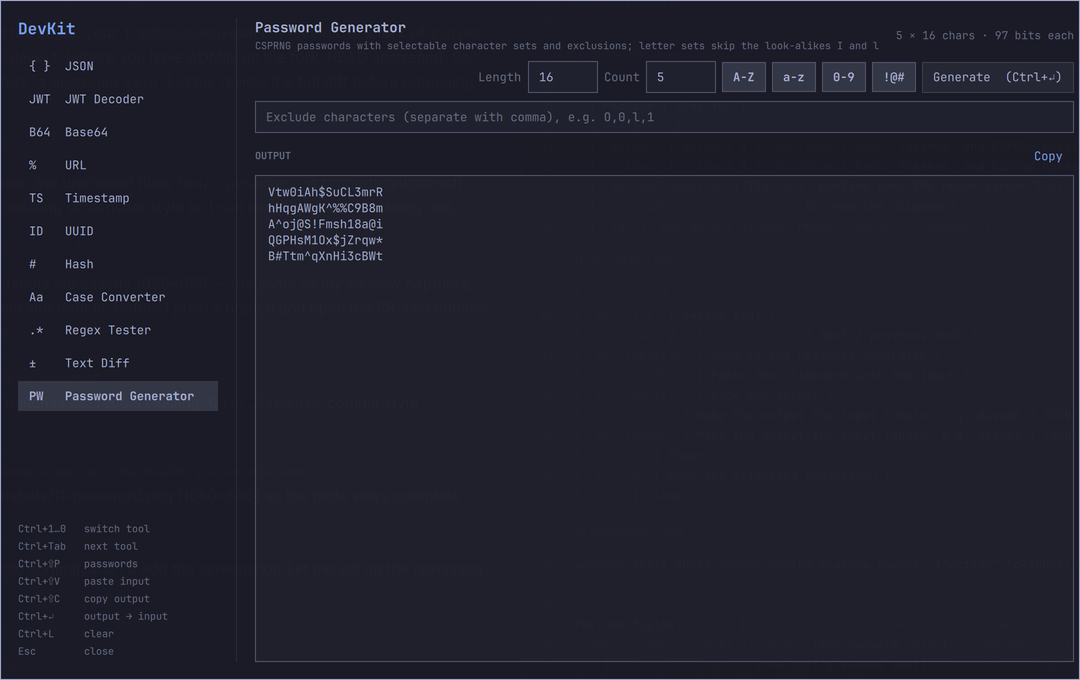
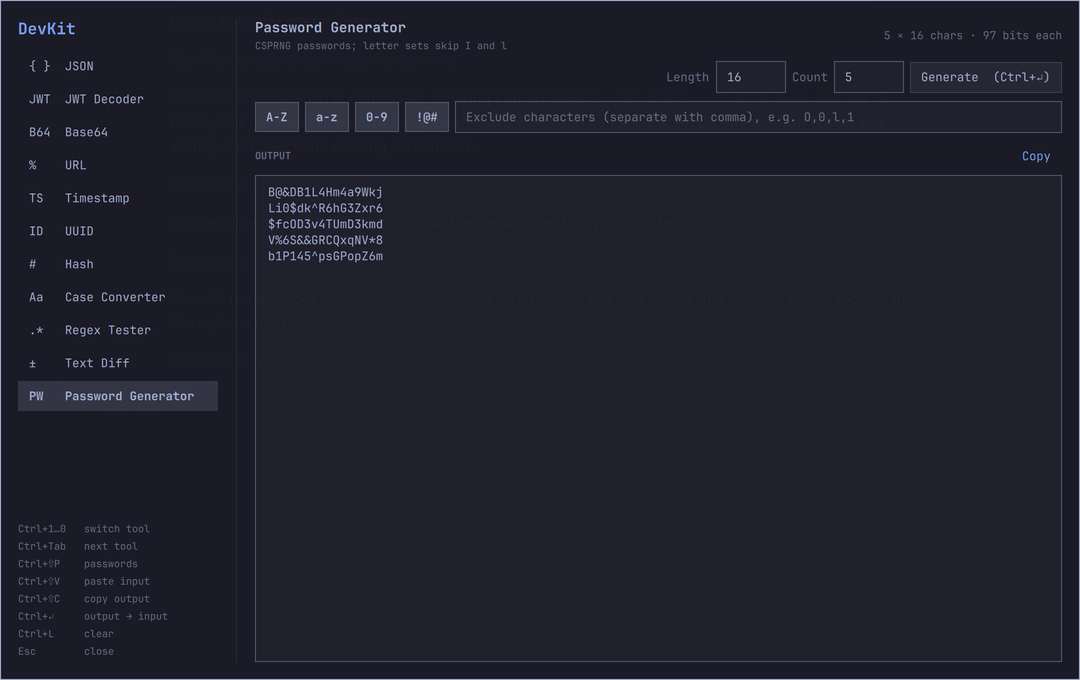
password: address review feedback
- Move the A-Z/a-z/0-9/!@# toggles onto the exclude line so the toolbar and
  the clipboard banner fit inside the window at two-digit values
- Keep "devtoys" in keywords and aliases, next to "password"
- Treat an empty or unreadable length as the default 16 instead of 1, so
  clearing the field cannot briefly show a 6-bit password
- Flag results under 60 bits as weak and colour the info text
- Cap Count at 100 while the Password tool is open (UUIDs keep 500) and clamp
  summon payloads per tool so the field matches what is generated
- Take the Password Generator shortcut from TOOLS, so the sidebar tooltip and
  the Shortcut stay in sync
- Restore a tool's fields before computing, so switching tools no longer draws
  and discards random bytes
- Reuse passwordOptions() when generating, and shorten the subtitle

diff --git a/DevKit.qml b/DevKit.qml
@@ -47,6 +47,7 @@ Item {
   property bool pwDigits: true
   property bool pwSpecial: true
   property var stash: ({})           // per-tool editor state, session only
+  property bool restoring: false     // true while many fields are set at once
 
   // ---- results
   property string outText: ""
@@ -88,16 +89,25 @@ Item {
     try { payload = JSON.parse(payloadJson || "{}") } catch (e) { payload = ({}) }
     opened = true
     window.visible = true
+    // Apply the whole payload before computing; see selectTool().
+    var wasRestoring = restoring
+    restoring = true
     if (payload.tool) selectTool(String(payload.tool))
     if (payload.mode) mode = String(payload.mode)
     if (payload.input !== undefined) inputEd.text = String(payload.input)
     if (payload.input2 !== undefined) input2Ed.text = String(payload.input2)
-    if (payload.count !== undefined) countField.text = String(Tools.uuidCount(payload.count))
+    // Count means UUIDs for one tool and passwords for the other, and their
+    // limits differ, so clamp it the way the field's validator does.
+    if (payload.count !== undefined)
+      countField.text = String(toolId === "password" ? Tools.passwordCount(payload.count) : Tools.uuidCount(payload.count))
     if (payload.length !== undefined) lengthField.text = String(Tools.passwordLength(payload.length))
     if (payload.pattern !== undefined) patternField.text = String(payload.pattern)
     if (payload.flags !== undefined) flagsField.text = String(payload.flags)
     if (payload.replacement !== undefined) { replField.text = String(payload.replacement); useReplace = true }
-    if (payload.tool || payload.mode) compute()
+    restoring = wasRestoring
+    if (payload.tool || payload.mode || payload.input !== undefined || payload.input2 !== undefined
+        || payload.count !== undefined || payload.length !== undefined || payload.pattern !== undefined
+        || payload.flags !== undefined || payload.replacement !== undefined) compute()
     readClipboard(payload.action === "clipboard" ? "load" : "hint")
     if (randomPool.length < randomPoolTarget) requestRandom(randomPoolTarget)
     Qt.callLater(focusInput)
@@ -147,6 +157,11 @@ Item {
     initialized = true
     var t = Tools.toolById(id)
     var s = stash[t.id] || ({})
+    // Every field below fires its own onTextChanged, so restore them all first
+    // and compute once. Otherwise a tool runs once per field, and UUIDs and
+    // passwords draw and discard random bytes on each of those runs.
+    var wasRestoring = restoring
+    restoring = true
     toolId = t.id
     mode = s.mode || (t.modes.length ? t.modes[0].value : "")
     useReplace = !!s.useReplace
@@ -157,12 +172,13 @@ Item {
     flagsField.text = s.flags !== undefined ? s.flags : "g"
     replField.text = s.replacement || ""
     countField.text = s.count !== undefined ? s.count : (t.id === "password" ? "1" : "5")
-    lengthField.text = s.length !== undefined ? s.length : "16"
+    lengthField.text = s.length !== undefined ? s.length : String(Tools.PASSWORD_LENGTH_DEFAULT)
     excludeField.text = s.exclude || ""
     pwUpper = s.pwUpper !== false
     pwLower = s.pwLower !== false
     pwDigits = s.pwDigits !== false
     pwSpecial = s.pwSpecial !== false
+    restoring = wasRestoring
     compute()
     Qt.callLater(focusInput)
   }
@@ -222,7 +238,8 @@ Item {
     diffRows = []
     outPairs = []
     infoUrgent = false
-    var invalid = Tools.passwordValidate(passwordOptions())
+    var opts = passwordOptions()
+    var invalid = Tools.passwordValidate(opts)
     if (invalid) {
       randomWanted = 0
       outText = ""
@@ -230,7 +247,7 @@ Item {
       infoText = ""
       return
     }
-    var need = Tools.passwordBytesNeeded(countField.text, lengthField.text)
+    var need = Tools.passwordBytesNeeded(opts.count, opts.length)
     var bytes = takeRandom(need)
     if (!bytes) {
       // Defer until the helper delivers enough secure bytes.
@@ -242,11 +259,8 @@ Item {
       return
     }
     randomWanted = 0
-    applyResult(Tools.run("password", {
-      length: lengthField.text, count: countField.text,
-      upper: pwUpper, lower: pwLower, digits: pwDigits, special: pwSpecial,
-      exclude: excludeField.text, randomBytes: bytes
-    }))
+    opts.randomBytes = bytes
+    applyResult(Tools.run("password", opts))
   }
 
   function applyResult(r) {
@@ -259,6 +273,8 @@ Item {
   }
 
   function compute() {
+    // selectTool() and open() set many fields in a row and compute afterwards.
+    if (restoring) return
     if (toolId === "hash") { computeHash(); return }
     if (toolId === "uuid") { computeUuid(); return }
     if (toolId === "password") { computePassword(); return }
@@ -609,19 +625,21 @@ Item {
       Shortcut { sequence: "Ctrl+Shift+V"; onActivated: root.readClipboard("paste") }
       Shortcut { sequence: "Ctrl+L"; onActivated: { inputEd.text = ""; input2Ed.text = ""; root.focusInput() } }
       Shortcut { sequence: "Ctrl+Return"; onActivated: (root.toolId === "uuid" || root.toolId === "password") ? root.compute() : root.useOutputAsInput() }
-      Shortcut { sequence: "Ctrl+Shift+P"; onActivated: root.selectTool("password") }
       Shortcut { sequence: "Ctrl+D"; enabled: root.clipTool !== ""; onActivated: root.loadClipboardSuggestion() }
       Repeater {
         model: root.tools.length
         delegate: Item {
           id: shortcutHost
           required property int index
+          readonly property var tool: root.tools[shortcutHost.index]
           Shortcut {
-            // Only the first ten tools keep a Ctrl+digit key; the rest use
-            // Ctrl+Tab or their own shortcut.
-            enabled: shortcutHost.index < 10
-            sequence: "Ctrl+" + ((shortcutHost.index + 1) % 10)
-            onActivated: root.selectTool(root.tools[shortcutHost.index].id)
+            // The first ten tools take Ctrl+1…0. A tool past that names its own
+            // key in TOOLS, so this and the sidebar tooltip cannot drift apart.
+            enabled: shortcutHost.index < 10 || shortcutHost.tool.shortcut !== undefined
+            sequence: shortcutHost.index < 10
+              ? "Ctrl+" + ((shortcutHost.index + 1) % 10)
+              : (shortcutHost.tool.shortcut || "")
+            onActivated: root.selectTool(shortcutHost.tool.id)
           }
         }
       }
@@ -658,7 +676,7 @@ Item {
               text: (modelData.badge + "    ").slice(0, 4) + " " + modelData.name
               foreground: root.foreground
               accent: root.accent
-              tooltipText: index < 10 ? "Ctrl+" + ((index + 1) % 10) : (modelData.id === "password" ? "Ctrl+⇧P" : "")
+              tooltipText: index < 10 ? "Ctrl+" + ((index + 1) % 10) : (modelData.shortcut || "").replace("Shift+", "⇧")
               onClicked: root.selectTool(modelData.id)
             }
           }
@@ -782,10 +800,10 @@ Item {
               id: lengthField
               visible: root.toolId === "password"
               Layout.preferredWidth: Style.space(70)
-              text: "16"
+              text: String(Tools.PASSWORD_LENGTH_DEFAULT)
               foreground: root.foreground
               accent: root.accent
-              validator: IntValidator { bottom: 1; top: 128 }
+              validator: IntValidator { bottom: 1; top: Tools.PASSWORD_LENGTH_MAX }
               onTextChanged: if (root.toolId === "password") root.compute()
             }
             PlainText { visible: root.toolId === "uuid" || root.toolId === "password"; text: "Count"; color: root.dim }
@@ -796,7 +814,9 @@ Item {
               text: "5"
               foreground: root.foreground
               accent: root.accent
-              validator: IntValidator { bottom: 1; top: 500 }
+              // UUIDs go up to 500; passwords stop at 100, so the field must
+              // not accept more than the tool will honour.
+              validator: IntValidator { bottom: 1; top: root.toolId === "password" ? Tools.PASSWORD_COUNT_MAX : Tools.UUID_MAX }
               onTextChanged: if (root.toolId === "uuid" || root.toolId === "password") root.compute()
             }
             Button {
@@ -807,35 +827,6 @@ Item {
               foreground: root.foreground
               accent: root.accent
               onClicked: { root.upper = !root.upper; root.compute() }
-            }
-            // password character sets
-            Button {
-              visible: root.toolId === "password"
-              text: "A-Z"; bordered: true; selected: root.pwUpper
-              foreground: root.foreground; accent: root.accent
-              tooltipText: "Include uppercase letters"
-              onClicked: { root.pwUpper = !root.pwUpper; root.compute() }
-            }
-            Button {
-              visible: root.toolId === "password"
-              text: "a-z"; bordered: true; selected: root.pwLower
-              foreground: root.foreground; accent: root.accent
-              tooltipText: "Include lowercase letters"
-              onClicked: { root.pwLower = !root.pwLower; root.compute() }
-            }
-            Button {
-              visible: root.toolId === "password"
-              text: "0-9"; bordered: true; selected: root.pwDigits
-              foreground: root.foreground; accent: root.accent
-              tooltipText: "Include digits"
-              onClicked: { root.pwDigits = !root.pwDigits; root.compute() }
-            }
-            Button {
-              visible: root.toolId === "password"
-              text: "!@#"; bordered: true; selected: root.pwSpecial
-              foreground: root.foreground; accent: root.accent
-              tooltipText: "Include special characters (!@#$%^&*)"
-              onClicked: { root.pwSpecial = !root.pwSpecial; root.compute() }
             }
             Button {
               id: generateButton
@@ -871,15 +862,47 @@ Item {
             onTextChanged: root.compute()
           }
 
-          TextField {
-            id: excludeField
-            visible: root.toolId === "password"
+          // The character-set toggles share this line with the exclude field:
+          // Length, Count, four toggles and Generate cannot fit on one line.
+          RowLayout {
             Layout.fillWidth: true
-            placeholderText: "Exclude characters (separate with comma), e.g. O,0,l,1"
-            foreground: root.foreground
-            accent: root.accent
-            font.family: root.fontFamily
-            onTextChanged: if (root.toolId === "password") root.compute()
+            visible: root.toolId === "password"
+            spacing: Style.spacing.md
+
+            Button {
+              text: "A-Z"; bordered: true; selected: root.pwUpper
+              foreground: root.foreground; accent: root.accent
+              tooltipText: "Include uppercase letters"
+              onClicked: { root.pwUpper = !root.pwUpper; root.compute() }
+            }
+            Button {
+              text: "a-z"; bordered: true; selected: root.pwLower
+              foreground: root.foreground; accent: root.accent
+              tooltipText: "Include lowercase letters"
+              onClicked: { root.pwLower = !root.pwLower; root.compute() }
+            }
+            Button {
+              text: "0-9"; bordered: true; selected: root.pwDigits
+              foreground: root.foreground; accent: root.accent
+              tooltipText: "Include digits"
+              onClicked: { root.pwDigits = !root.pwDigits; root.compute() }
+            }
+            Button {
+              text: "!@#"; bordered: true; selected: root.pwSpecial
+              foreground: root.foreground; accent: root.accent
+              tooltipText: "Include special characters (!@#$%^&*)"
+              onClicked: { root.pwSpecial = !root.pwSpecial; root.compute() }
+            }
+
+            TextField {
+              id: excludeField
+              Layout.fillWidth: true
+              placeholderText: "Exclude characters (separate with comma), e.g. O,0,l,1"
+              foreground: root.foreground
+              accent: root.accent
+              font.family: root.fontFamily
+              onTextChanged: if (root.toolId === "password") root.compute()
+            }
           }
 
           // editors

diff --git a/Tools.js b/Tools.js
@@ -30,8 +30,9 @@ var TOOLS = [
     modes: [], placeholder: "Test text…" },
   { id: "diff", badge: "±", name: "Text Diff", description: "Line-by-line diff of two texts",
     modes: [], placeholder: "Original text…" },
-  { id: "password", badge: "PW", name: "Password Generator", description: "CSPRNG passwords with selectable character sets and exclusions; letter sets skip the look-alikes I and l",
-    modes: [], placeholder: "" }
+  { id: "password", badge: "PW", name: "Password Generator", description: "CSPRNG passwords; letter sets skip I and l",
+    // Tools past the tenth have no Ctrl+digit key, so they name their own.
+    shortcut: "Ctrl+Shift+P", modes: [], placeholder: "" }
 ]
 
 function toolById(id) {
@@ -457,16 +458,23 @@ var PASSWORD_SETS = {
 }
 
 var PASSWORD_LENGTH_MAX = 128
+var PASSWORD_LENGTH_DEFAULT = 16
 var PASSWORD_COUNT_MAX = 100
 // count × length is capped so a single CSPRNG request can always cover a draw.
 var PASSWORD_MAX_CHARS = 8192
+// Below this many bits a result is called out as weak.
+var PASSWORD_WEAK_BITS = 60
 
 function passwordCount(count) {
   return Math.max(1, Math.min(PASSWORD_COUNT_MAX, Math.floor(Number(count) || 1)))
 }
 
+// An empty or unreadable length — the moment a field is cleared to retype it —
+// falls back to the default rather than generating a 1-character password.
 function passwordLength(length) {
-  return Math.max(1, Math.min(PASSWORD_LENGTH_MAX, Math.floor(Number(length) || 1)))
+  var n = Math.floor(Number(length))
+  if (!isFinite(n) || n < 1) n = PASSWORD_LENGTH_DEFAULT
+  return Math.min(PASSWORD_LENGTH_MAX, n)
 }
 
 // The exclude field is comma-separated. Each token's characters are dropped;
@@ -579,7 +587,10 @@ function passwordTool(opts, randomBytes) {
   }
   var alphabet = sets.join("").length
   var bits = Math.floor(length * Math.log(alphabet) / Math.LN2)
-  return result(out.join("\n"), "", count + " × " + length + " chars · " + bits + " bits each")
+  var weak = bits < PASSWORD_WEAK_BITS
+  return { output: out.join("\n"), error: "",
+           info: count + " × " + length + " chars · " + bits + " bits each" + (weak ? " · weak" : ""),
+           urgent: weak }
 }
 
 // ---------------------------------------------------------------- Case

diff --git a/README.md b/README.md
@@ -30,7 +30,7 @@ secrets stay out of clipboard history.
 | `Ctrl+8` | **Case Converter** | camel, Pascal, snake, SCREAMING, kebab, Train, dot, path, Title… |
 | `Ctrl+9` | **Regex Tester** | JS regex matches, numbered and named groups, replace with `$1` or `$<name>`. Runs in a separate process with a 1.5 s deadline |
 | `Ctrl+0` | **Text Diff** | Line diff of two texts |
-| `Ctrl+⇧P` | **Password Generator** | Length, count, upper/lower/digits/special sets and a comma-separated exclude list. CSPRNG-only, one character from each selected set. The letter sets skip `I`/`l` |
+| `Ctrl+⇧P` | **Password Generator** | Length, count, upper/lower/digits/special sets and a comma-separated exclude list. CSPRNG-only, one character from each selected set. The letter sets skip `I`/`l`. Results under 60 bits are flagged as weak |
 
 ## Screenshots
 
